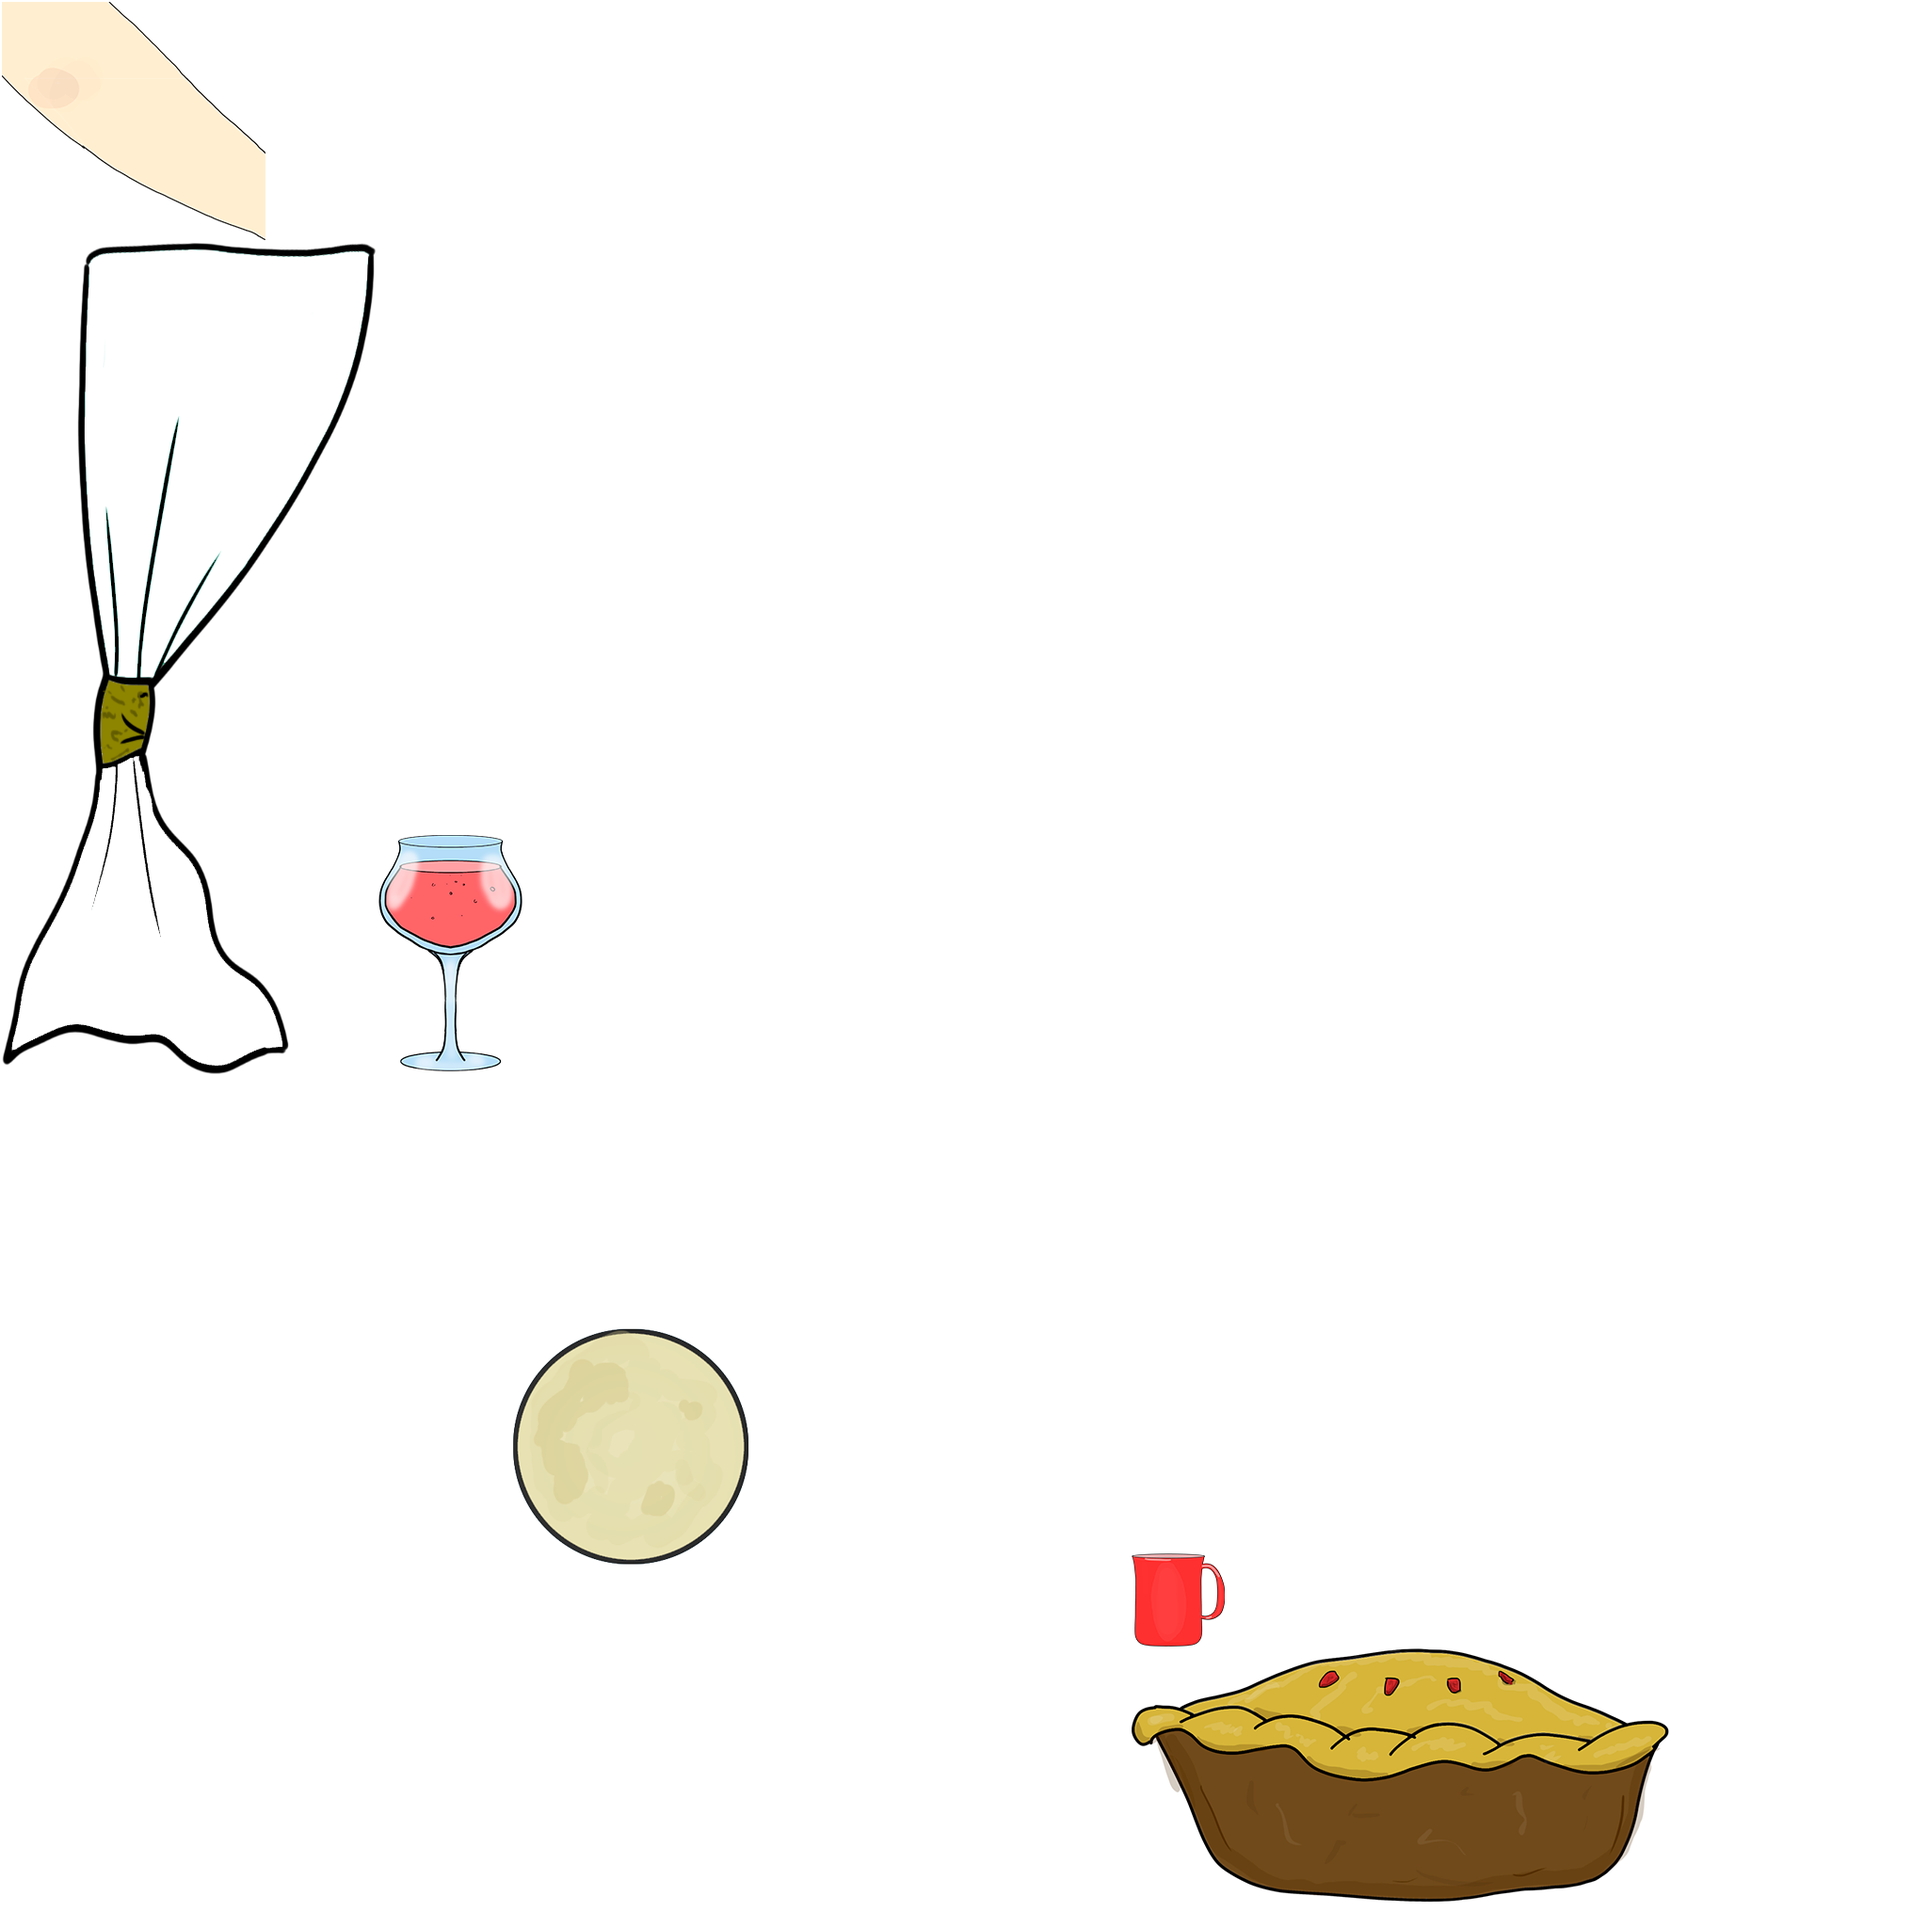
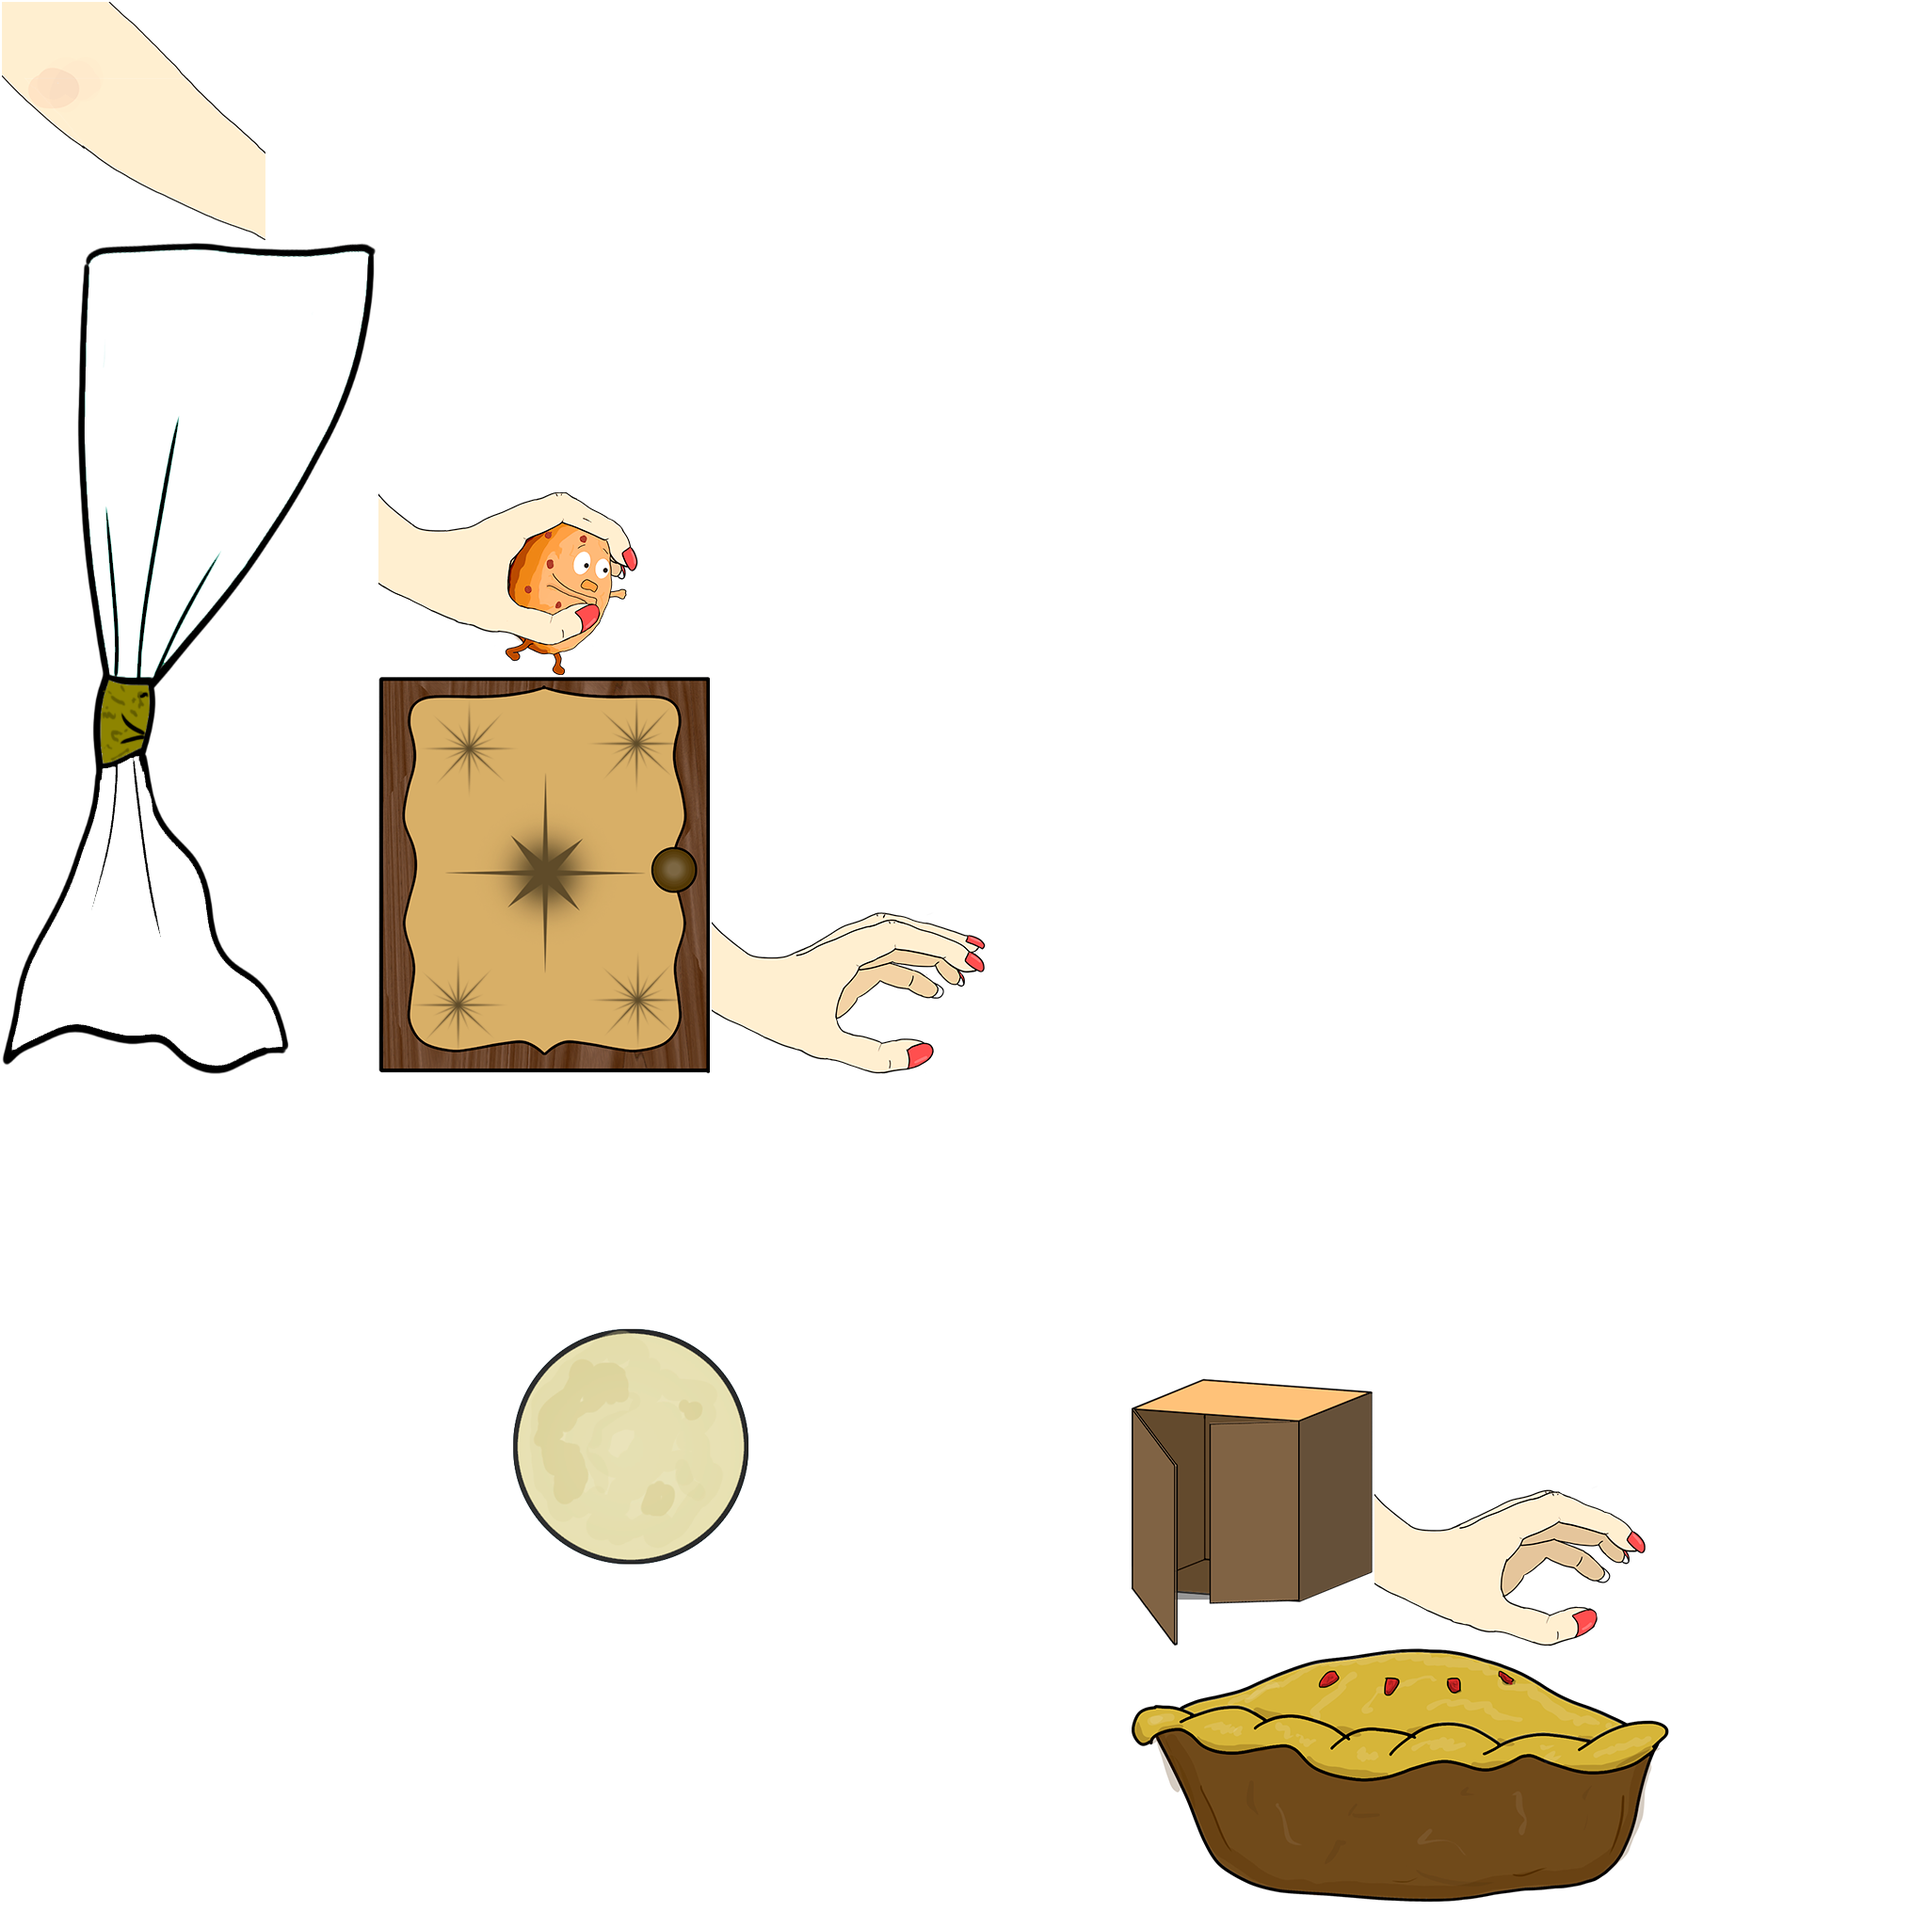
(feature) add boxes textures and add its to project

Changed region(s): [[0.1875, 0.25, 0.5312, 0.5625], [0.5625, 0.7188, 0.875, 0.875]]

diff --git a/core/src/com/mygdx/game/actors/game/RandomTableItem.kt b/core/src/com/mygdx/game/actors/game/RandomTableItem.kt
@@ -18,13 +18,14 @@ class RandomTableItem(manager : AssetManager,
 
     private val rand = Random()
     private val texture = manager.get(Descriptors.environment)
-    private var region = getRandomItemRegion()
+    private lateinit var region: TextureAtlas.AtlasRegion
+
+    private var startBound = Rectangle()
     private var bound = Rectangle()
+
     private val screenWidth = Gdx.graphics.width.toFloat()
 
-    private var scroller = Scrolled(screenWidth, table.worktopY,
-            region.originalWidth, region.originalHeight,
-            Scrolled.ScrollSpeed.LEVEL_2.value)
+    private lateinit var scroller: Scrolled
 
     var startAct = false
     var distanceUntil = 100
@@ -36,8 +37,10 @@ class RandomTableItem(manager : AssetManager,
     val shape = ShapeRenderer()
 
     init {
+        setRandomItem()
+        resetScroller()
         updateCoordinates()
-        setBound()
+        updateBound()
     }
 
     override fun act(delta: Float) {
@@ -48,13 +51,13 @@ class RandomTableItem(manager : AssetManager,
             cookie.checkCollides(this)
             updateCoordinates()
             scroller.update(delta)
-            setBound()
+            updateBound()
             isGoThrough(cookie)
 
             if(scroller.isScrolledLeft){
                 startAct = false
                 isScored = false
-                changeRegion()
+                setRandomItem()
                 resetScroller()
                 callback!!.call()
             }
@@ -69,33 +72,69 @@ class RandomTableItem(manager : AssetManager,
         }
     }
 
-    fun changeRegion(){
-        region = getRandomItemRegion()
-    }
-
     private fun resetScroller(){
-       scroller = Scrolled(screenWidth, table.worktopY,
+       scroller = Scrolled(screenWidth, y,
                 region.originalWidth, region.originalHeight,
                 Scrolled.ScrollSpeed.LEVEL_2.value)
     }
 
-    private fun setBound(){
-        bound.x = x
-        bound.y = y
-        bound.width = width
-        bound.height = height
+    private fun updateBound(){
+        bound.x = x + startBound.x
+        bound.y = scroller.getY() + startBound.y
+        bound.width = startBound.width
+        bound.height = startBound.height
     }
 
-    private fun getRandomItemRegion(): TextureAtlas.AtlasRegion{
-        return when(rand.nextInt(4)){
-            1 -> texture.findRegion(Assets.EnvironmentAtlas.LIME)
-            2 -> texture.findRegion(Assets.EnvironmentAtlas.APPLE)
-            3 -> texture.findRegion(Assets.EnvironmentAtlas.MILK_BOX)
-            4 -> texture.findRegion(Assets.EnvironmentAtlas.YOGURT_BOX)
+    private fun setRandomItem(){
+        when(rand.nextInt(6)){
+            1 -> {
+                region = texture.findRegion(Assets.EnvironmentAtlas.BOX1)
+                val boundHeight = region.originalHeight.toFloat() - 25 - 20
+                val boundWidth = region.originalWidth.toFloat() - 100 - 92
+                startBound = Rectangle(92f, 25f, boundWidth, boundHeight)
+                y = table.worktopY - 25f
+            }
+            2 -> {
+                region = texture.findRegion(Assets.EnvironmentAtlas.BOX2)
+                val boundHeight = region.originalHeight.toFloat() - 35 - 15
+                val boundWidth = region.originalWidth.toFloat() - 90 - 32
+                startBound = Rectangle(32f, 25f, boundWidth, boundHeight)
+                y = table.worktopY - 35f
+            }
+            3 -> {
+                region = texture.findRegion(Assets.EnvironmentAtlas.BOX3)
+                val boundHeight = region.originalHeight.toFloat() - 70 - 23
+                val boundWidth = region.originalWidth.toFloat() - 35
+                startBound = Rectangle(0f, 70f, boundWidth, boundHeight)
+                y = table.worktopY - 70
+            }
+            4 -> {
+                region = texture.findRegion(Assets.EnvironmentAtlas.BOX4)
+                val boundHeight = region.originalHeight.toFloat() - 20
+                val boundWidth = region.originalWidth.toFloat() - 10
+                startBound = Rectangle(0f, 0f, boundWidth, boundHeight)
+                y = table.worktopY - 25
+            }
+            5 -> {
+                region = texture.findRegion(Assets.EnvironmentAtlas.MILK_BOX)
+                val boundHeight = region.originalHeight.toFloat()
+                val boundWidth = region.originalWidth.toFloat()
+                startBound = Rectangle(0f, 0f, boundWidth, boundHeight)
+                y = table.worktopY
+            }
+            //1 -> texture.findRegion(Assets.EnvironmentAtlas.LIME)
+            //2 -> texture.findRegion(Assets.EnvironmentAtlas.APPLE)
+            //4 -> texture.findRegion(Assets.EnvironmentAtlas.YOGURT_BOX)
             //1 -> texture.findRegion(Assets.EnvironmentAtlas.GLASS)
             //6 -> texture.findRegion(Assets.EnvironmentAtlas.PIE)
             //5 -> texture.findRegion(Assets.EnvironmentAtlas.CARROT)
-            else -> texture.findRegion(Assets.EnvironmentAtlas.ORANGE)
+            else -> {
+                region = texture.findRegion(Assets.EnvironmentAtlas.BOX2)
+                val boundHeight = region.originalHeight.toFloat() - 35 - 15
+                val boundWidth = region.originalWidth.toFloat() - 90 - 32
+                startBound = Rectangle(32f, 25f, boundWidth, boundHeight)
+                y = table.worktopY - 35f
+            }
         }
     }
 
@@ -111,7 +150,7 @@ class RandomTableItem(manager : AssetManager,
 /*        if(startAct){
             shape.setAutoShapeType(true)
             shape.begin()
-            shape.rect(x, y, width, height)
+            shape.rect(bound.x, bound.y, bound.width, bound.height)
             shape.end()
         }*/
     }

diff --git a/core/src/com/mygdx/game/actors/game/Cookie.kt b/core/src/com/mygdx/game/actors/game/Cookie.kt
@@ -157,17 +157,17 @@ class Cookie(manager : AssetManager,
     }
 
     private fun isAfter(obj : RandomTableItem) : Boolean{
-        val tailObj = obj.x + obj.width
+        val tailObj = obj.getBoundsRect().x + obj.getBoundsRect().width
         return x >= tailObj && x < tailObj + 30f
     }
 
     private fun getTailX() = x + width
-    private fun isHigherThen(obj : RandomTableItem) = y > obj.y + obj.height - 30
+    private fun isHigherThen(obj : RandomTableItem) = y > obj.getBoundsRect().y + obj.getBoundsRect().height - 30
     private fun setOnTop(obj : RandomTableItem) {
         resetState()
-        position.y = obj.y + obj.height
+        position.y = obj.getBoundsRect().y + obj.getBoundsRect().height
     }
-    private fun againstThe(obj : RandomTableItem) {position.x = obj.x - width}
+    private fun againstThe(obj : RandomTableItem) {position.x = obj.getBoundsRect().x - width}
 
     override fun getBoundsRect() = rectangle
 

diff --git a/core/src/com/mygdx/game/world/GameWorld.kt b/core/src/com/mygdx/game/world/GameWorld.kt
@@ -39,13 +39,16 @@ class GameWorld(private val manager : AssetManager) {
     private val score = Score(manager)
     private val arm = Arm(manager, cookie)
     private val items = TableItems(manager, table, cookie)
-    val actors : Array<Actor> = Array.with(background, cupboard, shadow, sky, moon, city, window, flower, table, cookie, arm, score)
+    val actors : Array<Actor> = Array()
 
     private var touchable = true
     private var isGameOver = false
 
     init {
+        actors.addAll(background, cupboard, shadow, sky, moon, city, window, flower, table)
         actors.addAll(items.getActors())
+        actors.addAll(cookie, arm, score)
+
         addActorsToStage()
         startInitAnimation()
         stopMoveAllActors()

diff --git a/core/src/com/mygdx/game/api/Physical.kt b/core/src/com/mygdx/game/api/Physical.kt
@@ -7,8 +7,9 @@ import com.badlogic.gdx.scenes.scene2d.Actor
 interface Physical{
     fun getBoundsRect() : Rectangle
     fun <T> collides(actor : T): Boolean where T : Actor, T : Physical{
-        val rect = getBoundsRect()
-        if(actor.x + actor.width >= rect.x && Intersector.overlaps(actor.getBoundsRect(), rect)){
+        val bound = getBoundsRect()
+        val boundActor = actor.getBoundsRect()
+        if(boundActor.x + boundActor.width >= bound.x && Intersector.overlaps(boundActor, bound)){
             return true
         }
         return false

diff --git a/core/src/com/mygdx/game/data/Assets.kt b/core/src/com/mygdx/game/data/Assets.kt
@@ -50,6 +50,10 @@ class Assets {
             const val HAND = "hand"
             const val PROLONGATION_HAND = "prolongationHand"
             const val CATCH_COOKIE = "catch_cookie"
+            const val BOX1 = "box1"
+            const val BOX2 = "box2"
+            const val BOX3 = "box3"
+            const val BOX4 = "box4"
         }
     }
 
